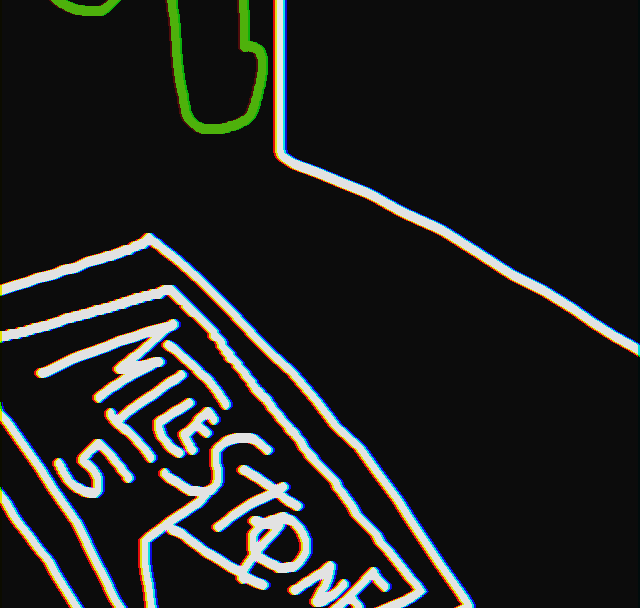
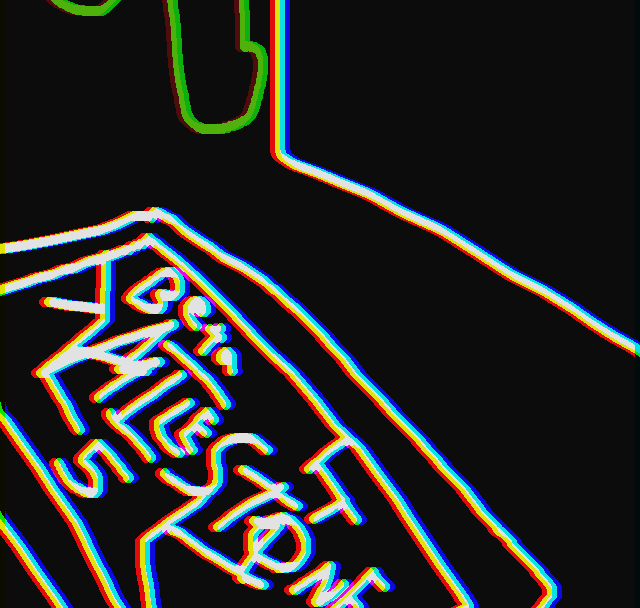
The game. is done.

diff --git a/CHANGELOG.md b/CHANGELOG.md
@@ -1,3 +1,6 @@
+# Live Release
+## 1.0 - 8/20/2025
+The game is now to be known as complete
 # Beta
 ## 4.0.1 - 8/20/2025
 ### Fixed
